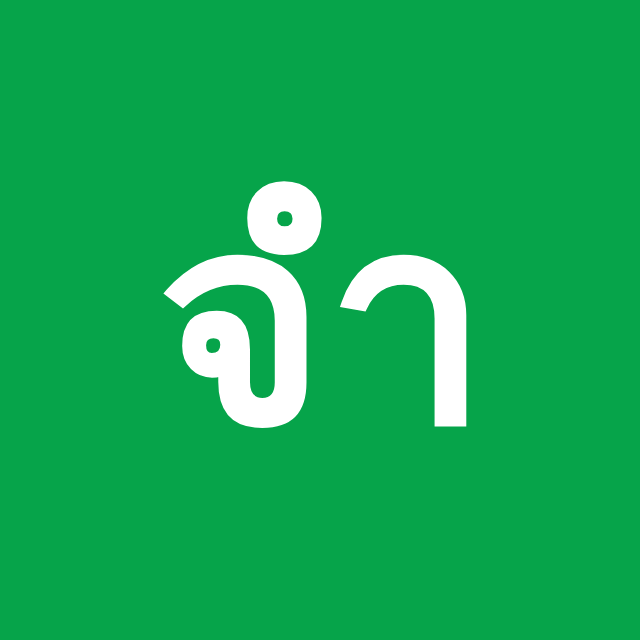
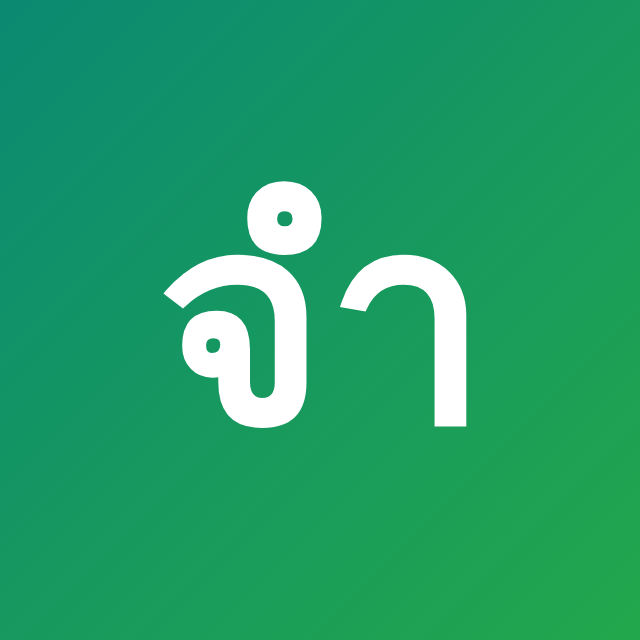
ไอคอนทั้งชุดเป็นเขียวไล่สี
เขียวอมฟ้า #0b8a72 ไปเขียวสด #22a74c ทแยงมุมเหมือนกันทุกอัน
องศาเดียวกันทั้งชุดเป็นเรื่องสำคัญ — ไล่สีคนละองศาในแต่ละไอคอน
จะทำให้ชุดดูไม่เป็นชุดเดียวกันทันที แม้ใช้สีเดียวกัน

ครอบทั้งไอคอนใน quick reply (14 อัน) ไอคอนใน rich menu และรูปโปรไฟล์ OA

รูปโปรไฟล์ทำไว้สองแบบ
  oa-icon.png    พื้นไล่สี ตัวอักษรขาว — อ่านออกชัดกว่าตอน LINE ย่อเหลือ 60px
  oa-icon-b.png  พื้นขาว ตัวอักษรไล่สี — ตรงกับโลโก้ที่ใช้อ้างอิง

Claude-Session: https://claude.ai/code/session_01M7tvfzcRoyzy7X7Yh9MoMw

diff --git a/tools/brand/richmenu.html b/tools/brand/richmenu.html
@@ -2,7 +2,9 @@
 <meta charset="utf-8">
 <style>
   :root {
-    --green: #06a44a;
+    /* ไล่สีทแยงมุม เขียวอมฟ้าไปเขียวสด — ชุดเดียวกับไอคอนในแชท */
+    --teal: #0b8a72;
+    --green: #22a74c;
     --ink: #16211b;
     --ink-2: #5d6b64;
     --line: #e2e8e3;
@@ -34,8 +36,8 @@
 </style>
 
 <div class="cell lead">
-  <svg class="ico" viewBox="0 0 96 96" fill="none" stroke="#06a44a" stroke-width="6.5"
-       stroke-linecap="round" stroke-linejoin="round">
+  <svg class="ico" viewBox="0 0 96 96" fill="none" stroke="url(#g1)" stroke-width="6.5"
+       stroke-linecap="round" stroke-linejoin="round"><defs><linearGradient id="g1" x1="0" y1="0" x2="1" y2="1"><stop offset="0" stop-color="#0b8a72"/><stop offset="1" stop-color="#22a74c"/></linearGradient></defs>
     <path d="M22 36h10l6-8h20l6 8h10a6 6 0 0 1 6 6v28a6 6 0 0 1-6 6H22a6 6 0 0 1-6-6V42a6 6 0 0 1 6-6z"/>
     <circle cx="48" cy="56" r="13"/>
   </svg>
@@ -43,8 +45,8 @@
 </div>
 
 <div class="cell">
-  <svg class="ico" viewBox="0 0 96 96" fill="none" stroke="#06a44a" stroke-width="6.5"
-       stroke-linecap="round" stroke-linejoin="round">
+  <svg class="ico" viewBox="0 0 96 96" fill="none" stroke="url(#g2)" stroke-width="6.5"
+       stroke-linecap="round" stroke-linejoin="round"><defs><linearGradient id="g2" x1="0" y1="0" x2="1" y2="1"><stop offset="0" stop-color="#0b8a72"/><stop offset="1" stop-color="#22a74c"/></linearGradient></defs>
     <path d="M34 16h22l14 14v48a6 6 0 0 1-6 6H34a6 6 0 0 1-6-6V22a6 6 0 0 1 6-6z"/>
     <path d="M56 16v14h14"/>
     <path d="M40 54h18M40 66h12"/>
@@ -53,8 +55,8 @@
 </div>
 
 <div class="cell">
-  <svg class="ico" viewBox="0 0 96 96" fill="none" stroke="#06a44a" stroke-width="6.5"
-       stroke-linecap="round" stroke-linejoin="round">
+  <svg class="ico" viewBox="0 0 96 96" fill="none" stroke="url(#g3)" stroke-width="6.5"
+       stroke-linecap="round" stroke-linejoin="round"><defs><linearGradient id="g3" x1="0" y1="0" x2="1" y2="1"><stop offset="0" stop-color="#0b8a72"/><stop offset="1" stop-color="#22a74c"/></linearGradient></defs>
     <path d="M24 26h48a7 7 0 0 1 7 7v26a7 7 0 0 1-7 7H46L30 80V66h-6a7 7 0 0 1-7-7V33a7 7 0 0 1 7-7z"/>
   </svg>
   <div class="label">คุยกับคน</div>

diff --git a/tools/brand/icon-b.html b/tools/brand/icon-b.html
@@ -9,7 +9,7 @@
   body {
     width: 640px; height: 640px;
     display: flex; align-items: center; justify-content: center;
-    background: linear-gradient(135deg, #0b8a72 0%, #22a74c 100%);
+    background: #ffffff;
     font-family: 'Noto Sans Thai', sans-serif;
     -webkit-font-smoothing: antialiased;
   }
@@ -19,7 +19,9 @@
     และ "จำ" คือคำที่สินค้านี้สัญญาไว้ทั้งคำ
   */
   .glyph {
-    font-size: 290px; font-weight: 600; color: #fff;
+    font-size: 290px; font-weight: 600;
+    background: linear-gradient(135deg, #0b8a72 0%, #22a74c 100%);
+    -webkit-background-clip: text; background-clip: text; color: transparent;
     line-height: 1; letter-spacing: -.02em;
     transform: translateY(14px);
   }

diff --git a/tools/icons.py b/tools/icons.py
@@ -11,12 +11,18 @@
 import os
 import cairosvg
 
-GREEN = "#06A44A"
+# ไล่สีทแยงมุม เขียวอมฟ้าไปเขียวสด — ตัวเดียวกันทุกไอคอน
+# ไล่สีคนละองศาในแต่ละไอคอน จะทำให้ชุดดูไม่เป็นชุดเดียวกันทันที
+TEAL = "#0B8A72"
+GREEN = "#22A74C"
 W = 8  # เส้นหนา 8 ที่ 96px = 2px ตอนแสดงจริง
 
 HEAD = (
     '<svg xmlns="http://www.w3.org/2000/svg" viewBox="0 0 96 96" width="96" height="96">'
-    f'<g fill="none" stroke="{GREEN}" stroke-width="{W}" '
+    '<defs><linearGradient id="g" x1="0" y1="0" x2="1" y2="1">'
+    f'<stop offset="0" stop-color="{TEAL}"/><stop offset="1" stop-color="{GREEN}"/>'
+    "</linearGradient></defs>"
+    f'<g fill="none" stroke="url(#g)" stroke-width="{W}" '
     'stroke-linecap="round" stroke-linejoin="round">'
 )
 TAIL = "</g></svg>"
@@ -74,9 +80,9 @@ ICONS = {
       <path d="M24 26h48a7 7 0 0 1 7 7v26a7 7 0 0 1-7 7H46L30 80V66h-6a7 7 0 0 1-7-7V33a7 7 0 0 1 7-7z"/>
     """,
     # ให้เราต่อให้ — บริการที่เราลงมือทำแทน
-    "spark": f"""
+    "spark": """
       <path d="M48 14c4 19 11 26 30 30-19 4-26 11-30 30-4-19-11-26-30-30 19-4 26-11 30-30z"
-            fill="{GREEN}" stroke-width="0"/>
+            fill="url(#g)" stroke-width="0"/>
     """,
     # เตือน / ยังก่อน
     "bell": """
